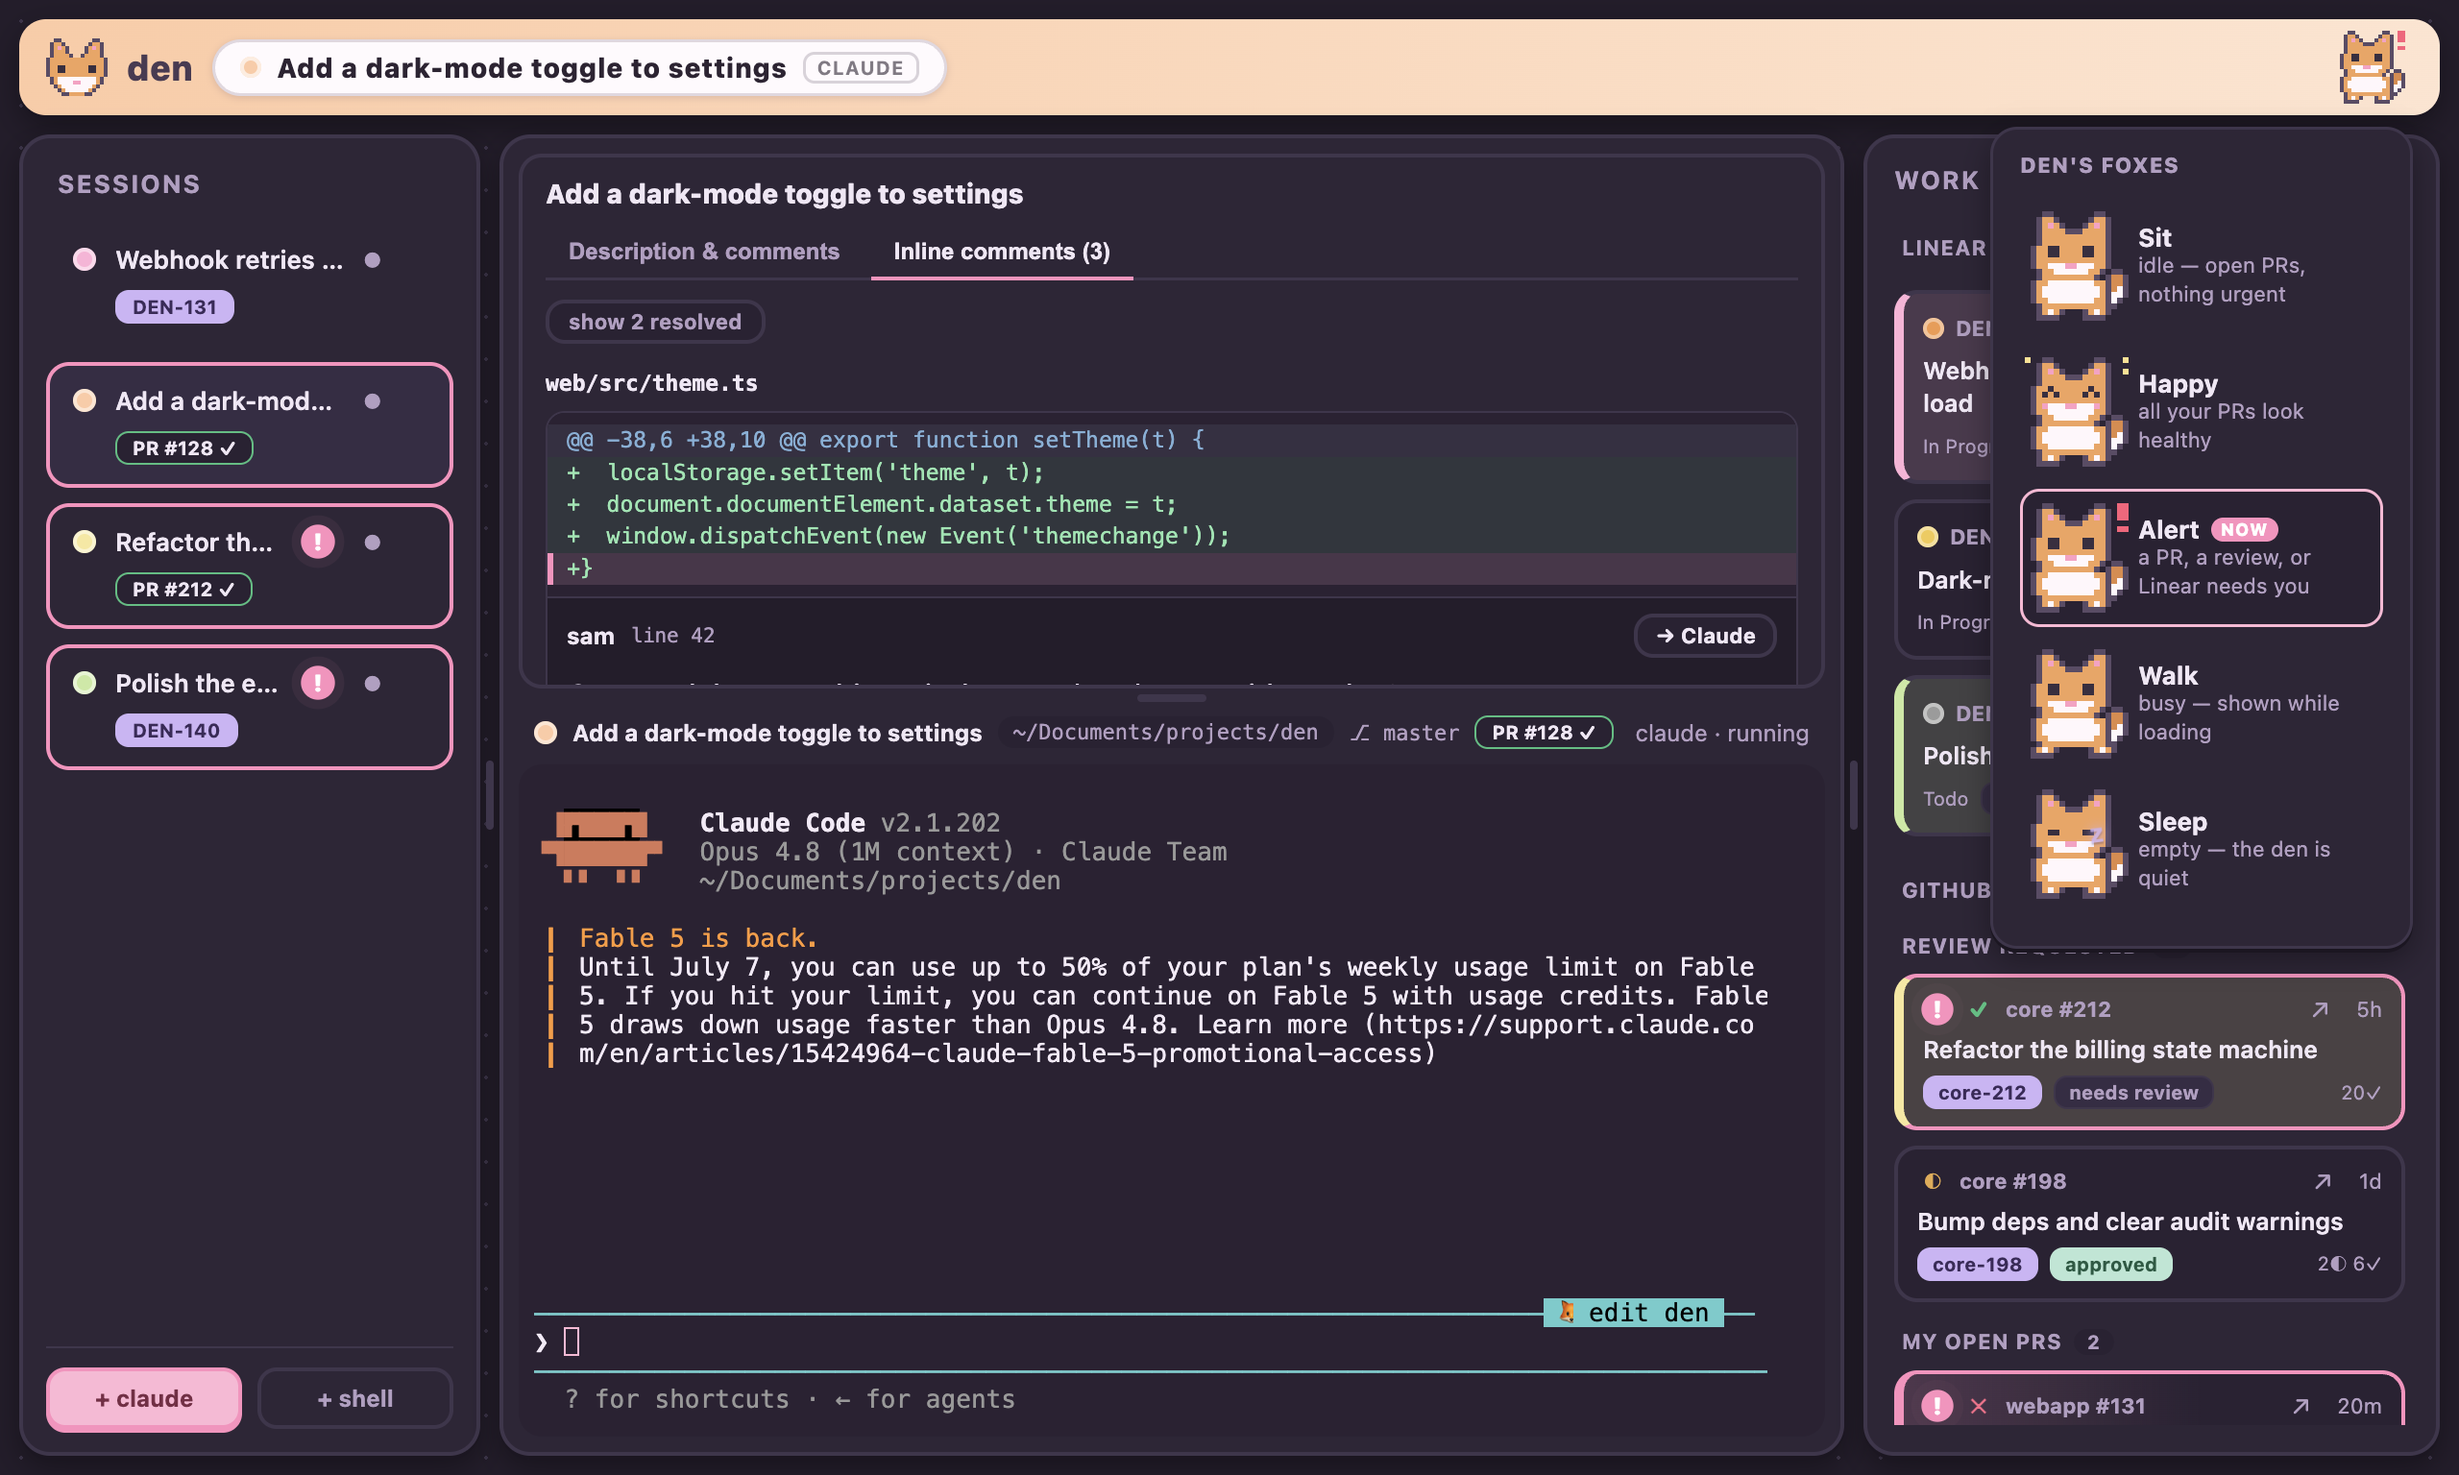
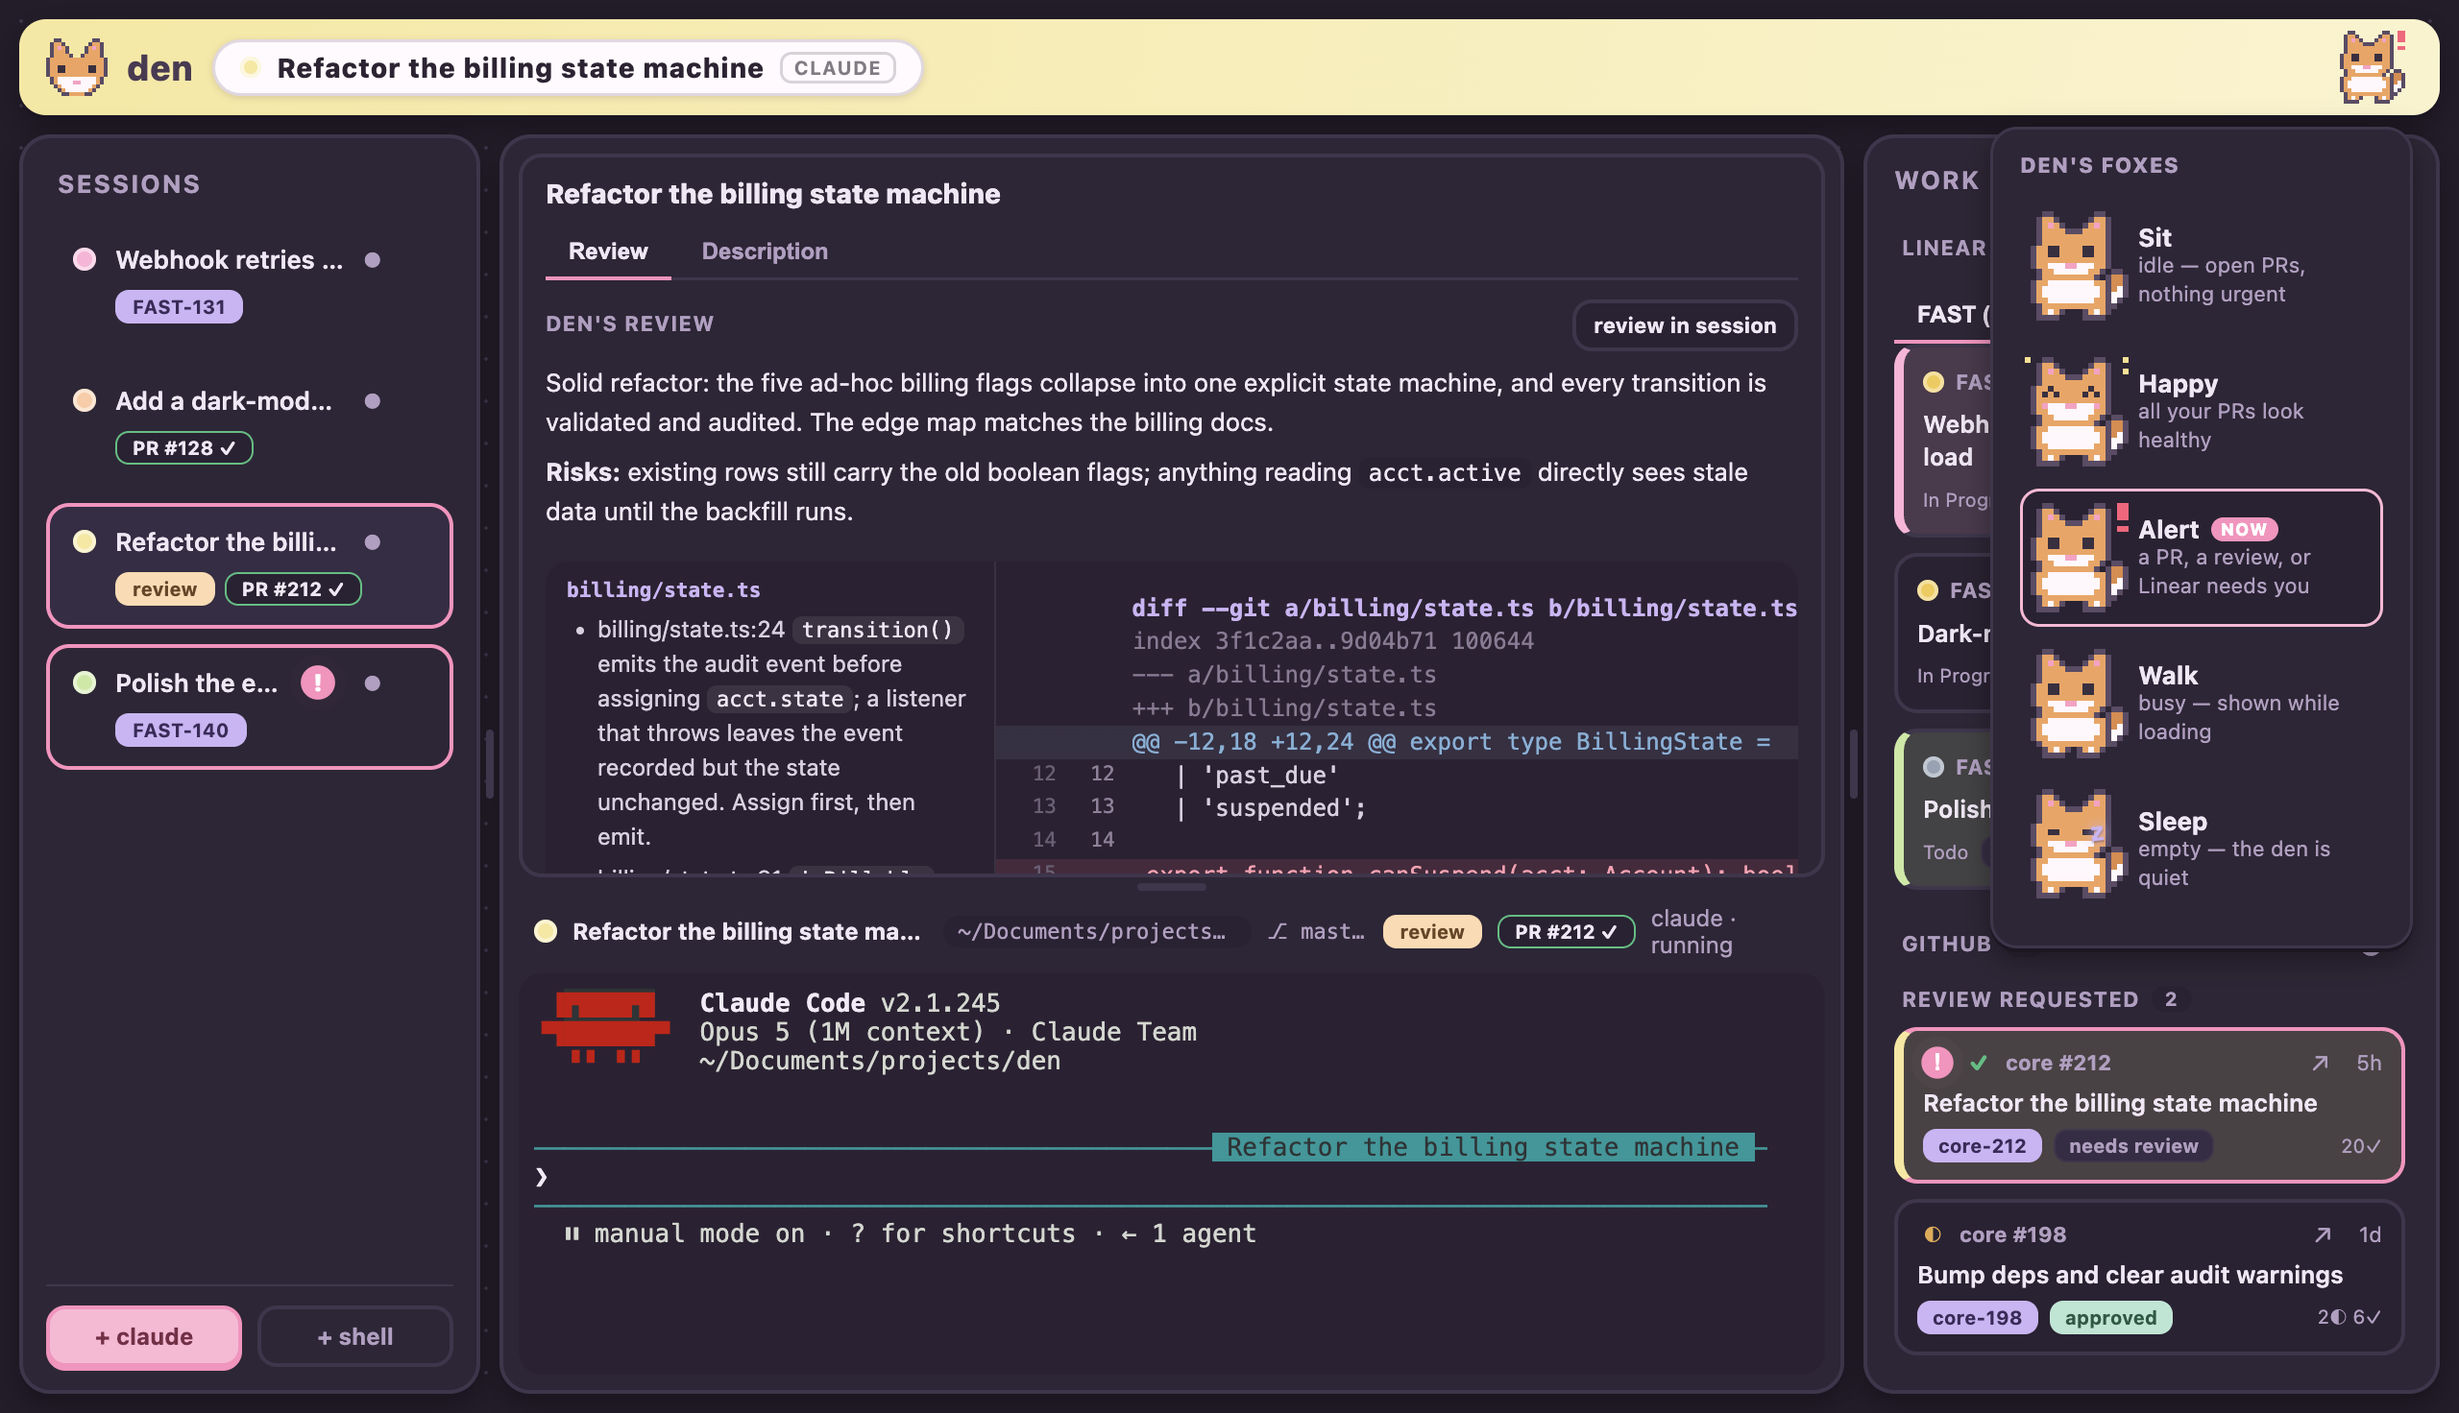
docs: refresh screenshots for the current UI, add an architecture diagram
Retake the hero, my-PR, and fox-popover shots against today's build
(FAST-team tabs, review chip, diff line-number gutter — all fictional
demo data, staged over an isolated server with mocked work endpoints),
and add a new shot of the review pane showing the session's review
rendered beside the diff. docs/architecture.svg maps the whole app —
renderer, main process, the loopback Fastify server and its modules,
and everything they touch — and the README's review bullet now
describes how reviewing actually works.

diff --git a/README.md b/README.md
@@ -21,13 +21,22 @@ you. Sessions are server-owned, so they outlive any window and survive restarts.
 - **Tied to your work.** Open a Linear ticket or GitHub PR and den spins up a
   Claude session on the right branch (local or a git worktree), tagged with its
   ticket/PR so you always know what a session is for.
-- **Review PRs in-app.** For others' PRs: the diff with a per-file Claude
-  summary column and an optional written review. For your own: description,
-  reviews, and inline comments grouped by file with the code they point at —
-  resolved threads tucked behind a toggle. Every comment has a **“→ Claude”**
-  button that hands it to the session's Claude to action.
+- **Review PRs in-app.** For others' PRs, the Claude session below the diff
+  does the reviewing: it gets the full diff as a file, runs the finding pass,
+  and writes its review to the workspace notepad — den renders the general
+  review up top and **each file's comments beside that file's hunks**. The
+  session has a full shell (running the tests is part of reviewing) but is
+  instructed, with a permission-deny backstop, to never commit, push, or post
+  to GitHub.
 
-  ![Reviewing a PR with inline comments](docs/pr.png)
+  ![Reviewing a PR — the review beside the diff](docs/review.png)
+
+  For your own PRs: description, reviews, and inline comments grouped by file
+  with the code they point at — resolved threads tucked behind a toggle. Every
+  comment has a **“→ Claude”** button that hands it to the session's Claude to
+  action.
+
+  ![Your PR's inline comments, each with its hunk](docs/pr.png)
 
 - **A fox that reads the room.** The topbar fox goes **alert** when a PR needs
   you (failing CI, changes requested, or a review you owe) or Linear has unread
@@ -76,6 +85,8 @@ Requires the `claude` and `gh` CLIs on your `PATH`; Linear is optional (paste a
 personal API key in the work panel).
 
 ## How it works
+
+![den's architecture](docs/architecture.svg)
 
 - A Node/TypeScript backend runs **inside** Electron's main process (also
   runnable standalone via a CLI). Terminals stream over a WebSocket; everything
